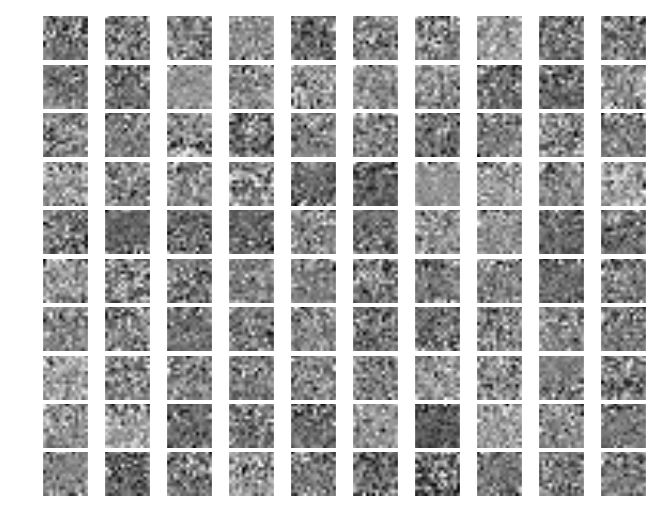
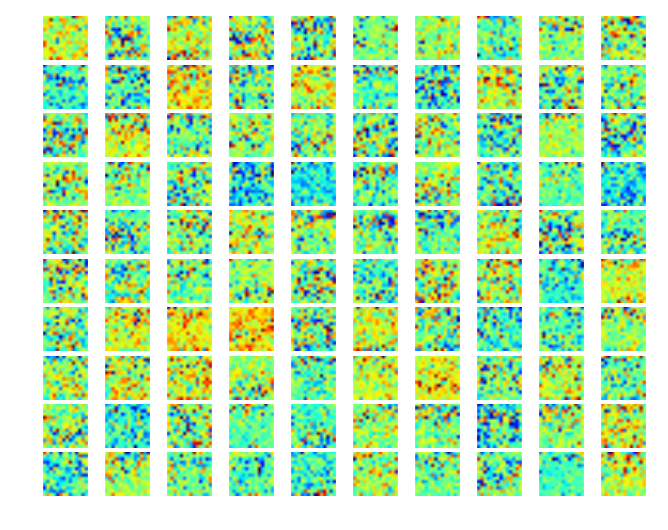
bug fix + color images in pca whitening test

diff --git a/transform.py b/transform.py
@@ -191,6 +191,8 @@ def test_pca(sh=(12, 12), m=10, retain=0.9):
 
     xt, mean = pca.reduce(x, retain=retain)
     cov = np.dot(xt, xt.T)
+
+    plt.jet()
     plt.imshow(cov)
     plt.show()
 
@@ -209,6 +211,7 @@ def test_pca_white(sh=(12, 12), m=500, eps=0.1, rc=(10, 10), out_dir="img"):
     f, axes = plt.subplots(rows, cols, sharex='col', sharey='row')
 
     plt.subplots_adjust(hspace=0.1, wspace=0)
+    plt.jet()
 
     for r in range(rows):
         for c in range(cols):
@@ -220,6 +223,7 @@ def test_pca_white(sh=(12, 12), m=500, eps=0.1, rc=(10, 10), out_dir="img"):
     plt.savefig(path, bbox_inches='tight')
 
     cv = np.dot(x_white, x_white.T)
+    plt.clf()
     plt.imshow(cv)
     plt.show()
 
@@ -266,17 +270,17 @@ def main():
     n_faces = 20
     face_shape = (64, 64)
 
-    pca_faces_image(sh=face_shape, m=m_faces, n_faces=n_faces, test_in_sample=True)
-    pca_faces_image(sh=face_shape, m=m_faces, n_faces=n_faces, test_in_sample=False)
+    #pca_faces_image(sh=face_shape, m=m_faces, n_faces=n_faces, test_in_sample=True)
+    #pca_faces_image(sh=face_shape, m=m_faces, n_faces=n_faces, test_in_sample=False)
 
-    test_pca()
+    #test_pca()
 
     m_patches = 300000
     patch_sizes = [(i, i) for i in np.arange(8, 17)]
 
     for sh in patch_sizes:
         test_pca_white(sh=sh, m=m_patches)
-        test_zca_white(sh=sh, m=m_patches)
+        #test_zca_white(sh=sh, m=m_patches)
 
 
 if __name__ == "__main__":

diff --git a/README.md b/README.md
@@ -11,15 +11,28 @@ this is ... we'll see
 
 # getting data
 
+Input data is expected to be unpacked in a path relative to the code:
+
+    ../../img
+    
+
 ## labeled faces in the wild (lfw)
 
-Available here: http://vis-www.cs.umass.edu/lfw/lfw.tgz
+Download here:
+http://vis-www.cs.umass.edu/lfw/lfw.tgz
 
     cd data
     curl http://vis-www.cs.umass.edu/lfw/lfw.tgz > lfw.tgz
     tar zxvf lfw.tgz
     rm lwf.tgz
     
+## labeled faces in the wild, cropped (lfwc)
+
+Download here:
+http://conradsanderson.id.au/lfwcrop/lfwcrop_grey.zip
+
+
+
 
 
 
